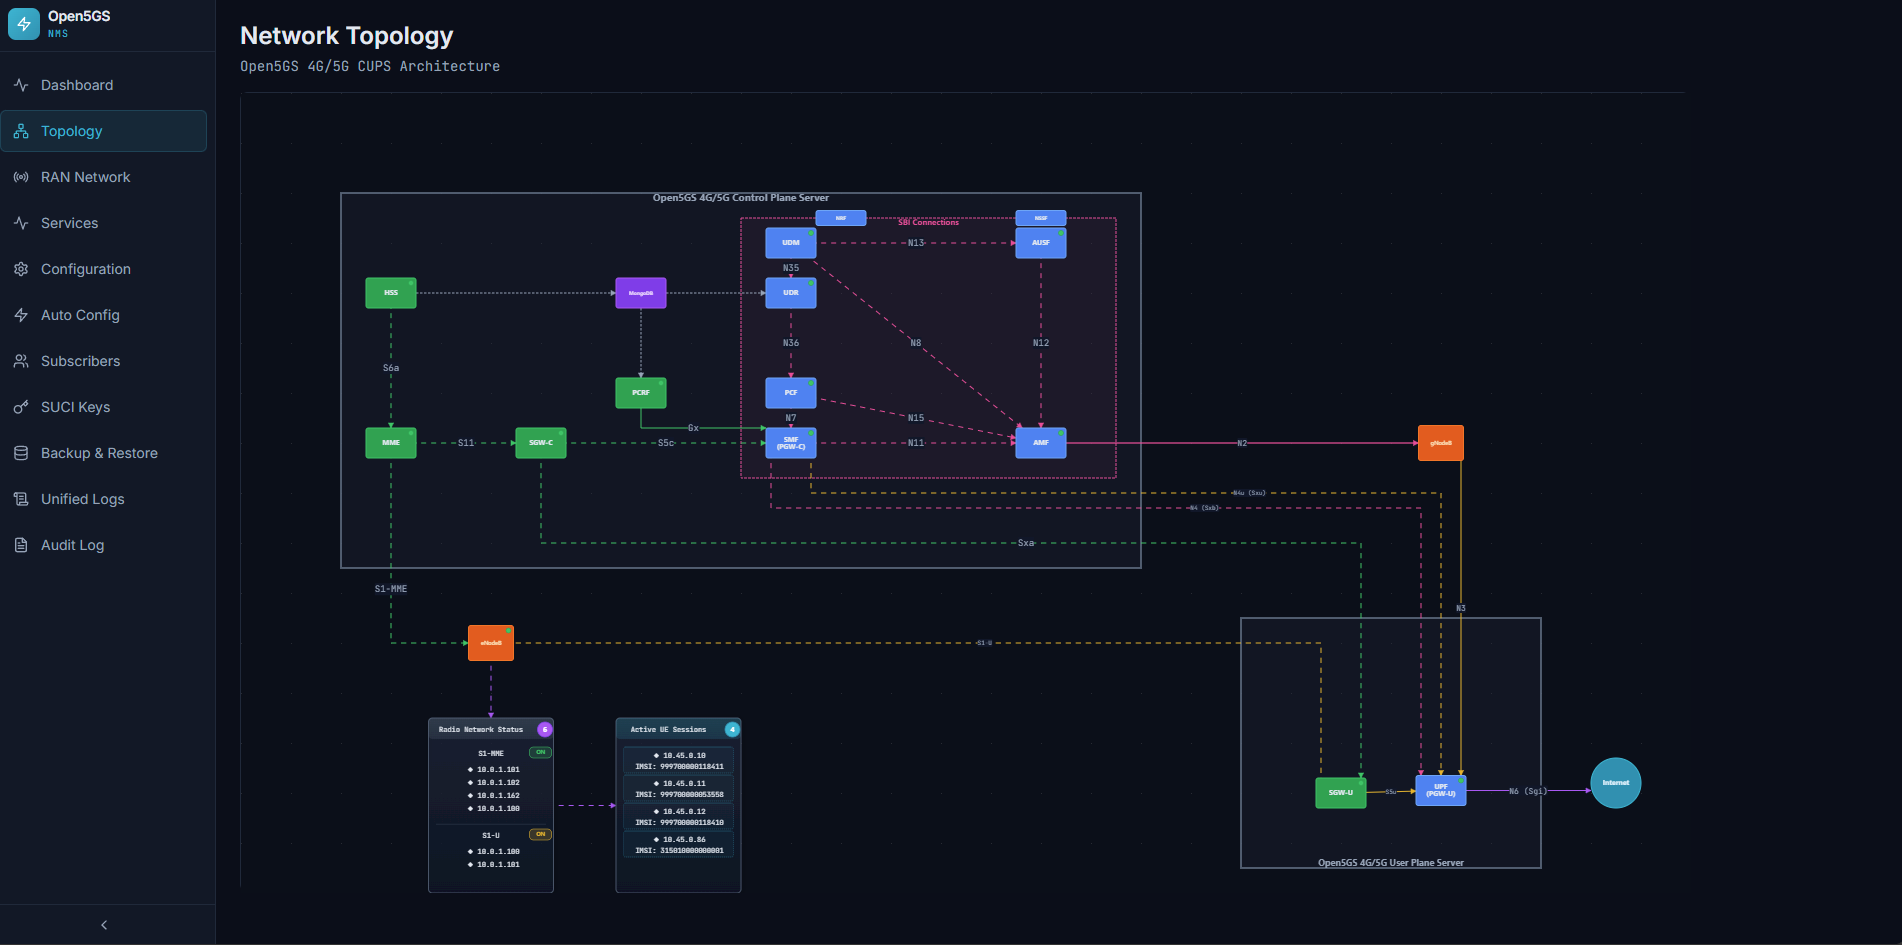
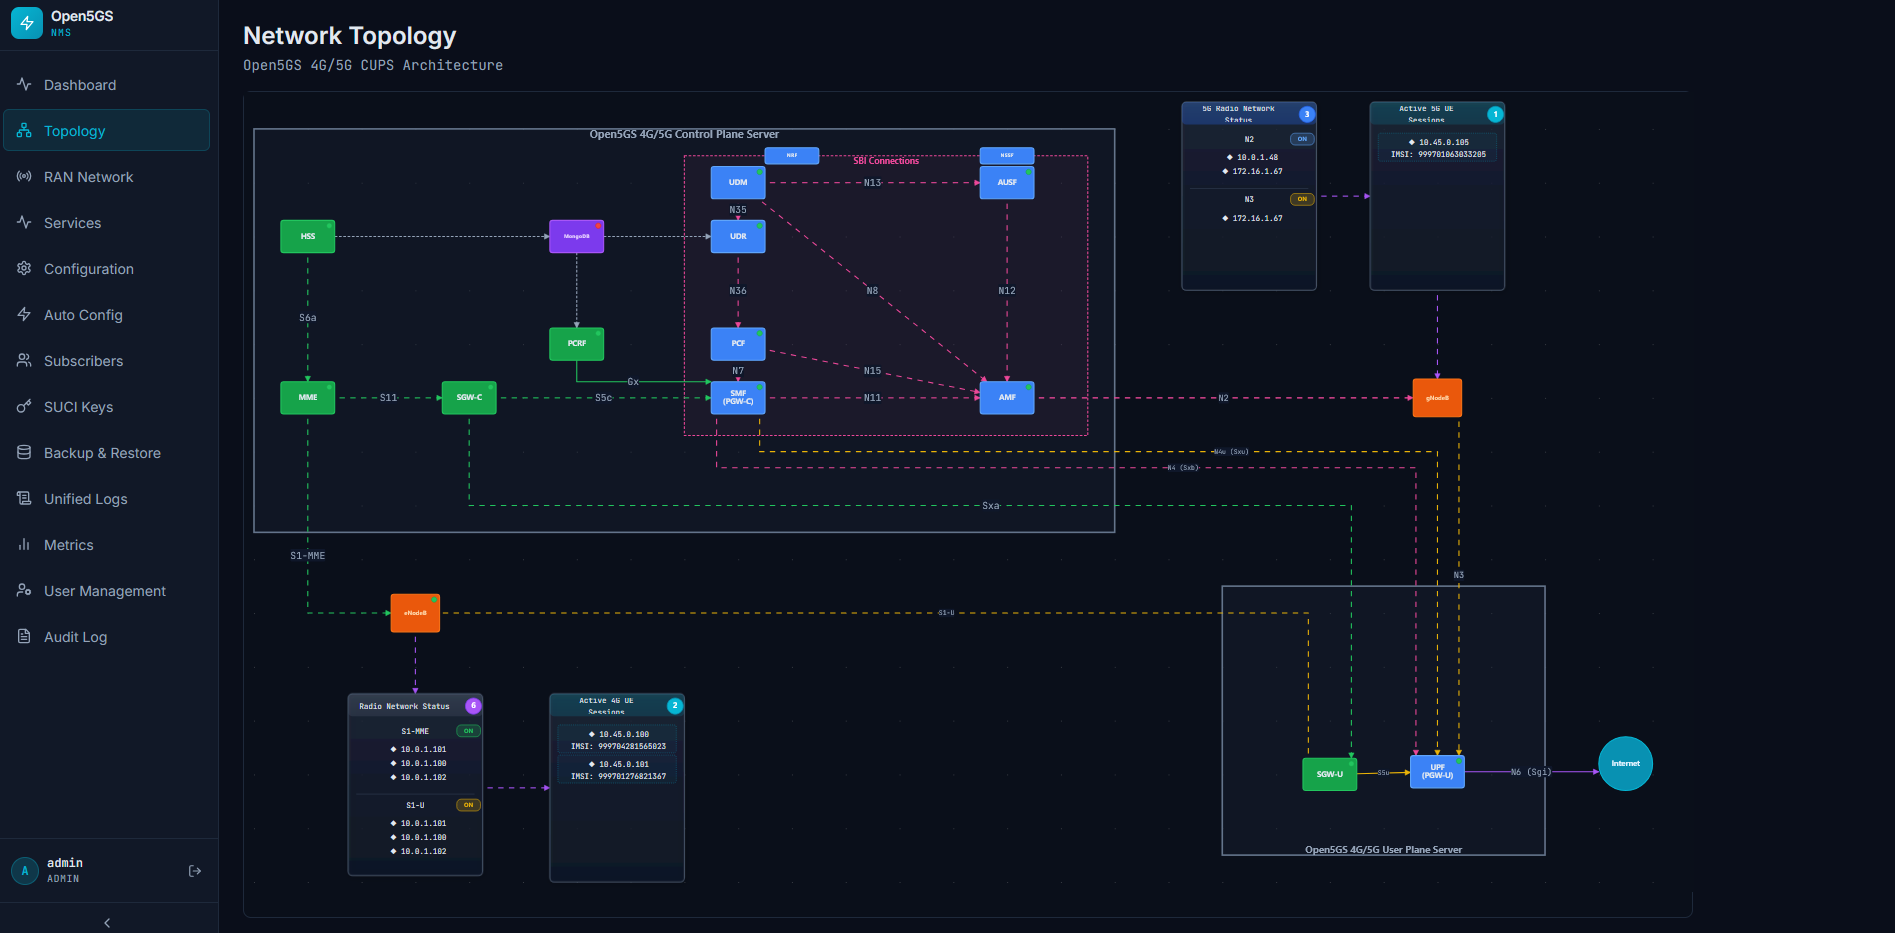
docs: add RAN Network page screenshot, update topology diagram

diff --git a/README.md b/README.md
@@ -61,9 +61,12 @@ Open5GS NMS simplifies the management of Open5GS deployments by providing:
 ### RAN Network Monitoring
 - **4G EPC section** — S1-MME (control plane) and S1-U (user plane) interface cards with live connected eNodeB IPs
 - **5G NR section** — N2 (AMF ↔ gNodeB, SCTP/netstat) and N3 (UPF ↔ gNodeB, tshark/GTP-U) interface cards with live connected gNodeB IPs
-- **Active UE Sessions table** — combined 4G + 5G sessions with a Generation column (`4G`/`5G` badge per row) and separate session counts in the header
-- **True 4G/5G separation** — 5G sessions detected via tshark inner GTP-U packet inspection; 4G via conntrack; no duplicate IMSIs across both boxes
-- All interface IPs sourced from Open5GS YAML configs and verified against host interfaces — no hardcoded addresses
+- **UE-to-radio mapping** — each radio card shows which UEs are connected to it (IMSI, UE IP, CM State) nested directly under the radio row
+- **Active UE Sessions table** — combined 4G + 5G sessions with Generation, CM State, DNN/APN, Security algorithms, AMBR, and Radio IP columns
+- **True 4G/5G separation** — sourced directly from Open5GS internal APIs (AMF, MME, SMF)
+- All interface IPs sourced from Open5GS YAML configs and verified — no hardcoded addresses
+
+![RAN Network Page](docs/screenshots/ran-network-page.png)
 
 ### Network Topology Visualization
 - **Interactive Diagram** - JointJS-based professional network topology
